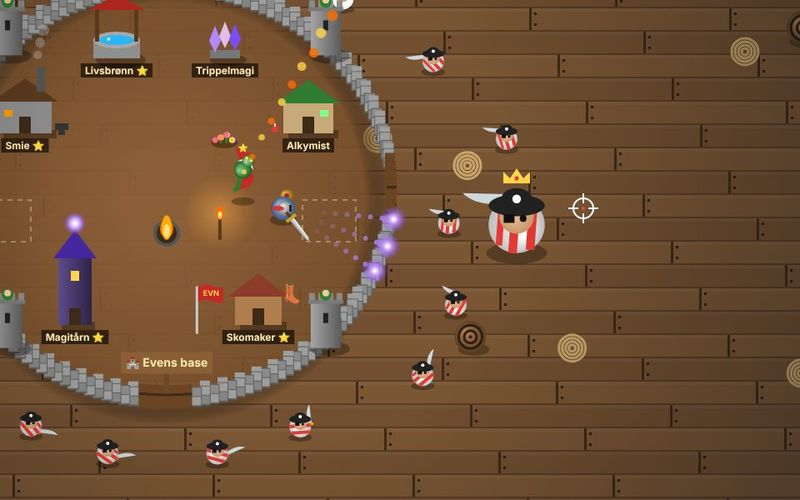
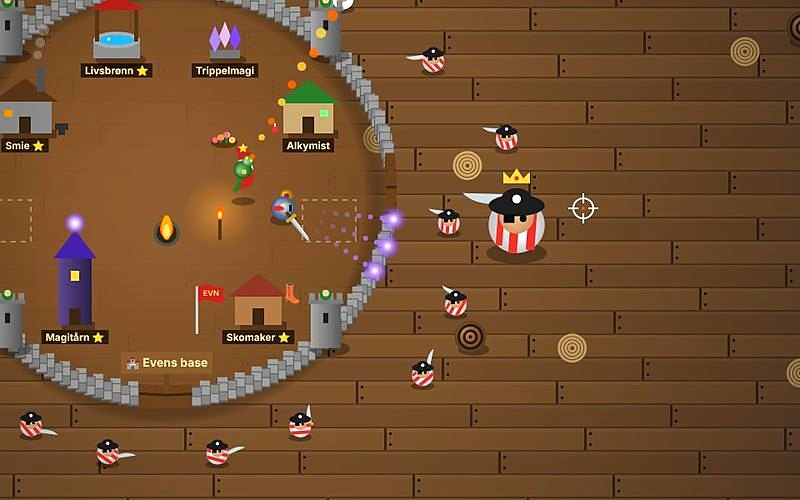
Forside: mer levende spillkort, klikkbare nyhetskort, ny footer og scroll-animasjoner
- Spillkort løfter seg mer ved hover (translateY + scale) med glød i spillets egen farge
- Fargerike og større stikkord, skarpere skjermbilder (Fossil Zoo i 1200 px via srcset)
- Nyhetskort med farge per nyhet, ikon i fargesirkel og hele kortet klikkbart
- Footer med lenker til Alle spill, Personvern, Sikkerhet og Kontakt (for voksne)
- Scroll-reveal med forskjøvet inntoning; innhold vises uten JavaScript og ved redusert bevegelse

Claude-Session: https://claude.ai/code/session_01MHiEAzBznnujooqyTbQ68h

diff --git a/index.html b/index.html
@@ -13,6 +13,7 @@
 <link rel="icon" href="favicon.png">
 <link rel="apple-touch-icon" href="favicon.png">
 <link rel="stylesheet" href="fonter/fonter.css">
+<script>document.documentElement.classList.add('js');</script>
 <style>
   /* ===== Fargepalett: mørk marine med blå og lilla fra logoen ===== */
   :root {
@@ -28,7 +29,9 @@
   body { margin: 0; font-family: var(--brod); color: var(--tekst); background: var(--bg); line-height: 1.5;
     background-image:
       radial-gradient(900px 520px at 8% -6%, rgba(47,107,255,.28), transparent 62%),
-      radial-gradient(800px 480px at 100% 4%, rgba(138,61,255,.24), transparent 60%);
+      radial-gradient(800px 480px at 100% 4%, rgba(138,61,255,.24), transparent 60%),
+      radial-gradient(700px 520px at 85% 62%, rgba(255,92,170,.10), transparent 62%),
+      radial-gradient(760px 520px at 0% 88%, rgba(25,195,255,.12), transparent 60%);
     background-repeat: no-repeat; min-height: 100vh; }
   a { color: inherit; text-decoration: none; }
   img { display: block; max-width: 100%; }
@@ -156,8 +159,8 @@
     .hero { min-height: 0; margin-top: 12px; } .hero .innhold { padding: 18px 24px; grid-template-columns: 1fr; }
     .epoker { display: none; } .hero .merker { display: none; } .hero h1 { font-size: 34px; margin-bottom: 8px; } .hero p { display: none; } }
   /* Diskret inntoning når seksjoner kommer til syne */
-  .inn { opacity: 0; transform: translateY(16px); transition: opacity .6s ease, transform .6s ease; }
-  .inn.synlig { opacity: 1; transform: none; }
+  .js .inn { opacity: 0; transform: translateY(26px); }
+  .js .inn.synlig { opacity: 1; transform: none; transition: opacity .7s ease, transform .7s cubic-bezier(.2,.8,.25,1); transition-delay: calc(var(--i, 0) * 110ms); }
 
   /* ===== Nettbrett ===== */
   @media (max-width: 980px) {
@@ -205,7 +208,7 @@
   /* Respekter ønske om mindre bevegelse */
   @media (prefers-reduced-motion: reduce) {
     *, *::before, *::after { animation: none !important; transition: none !important; }
-    .inn { opacity: 1; transform: none; }
+    .js .inn { opacity: 1; transform: none; }
     html { scroll-behavior: auto; }
   }
 
@@ -231,6 +234,78 @@
     .spillkort .stikkord span { font-size: 12px; padding: 2px 9px; }
     .spillkort p { font-size: 15px; line-height: 1.35; }
     .spillkort .knapp { min-height: 52px; font-size: 19px; margin-top: 4px; }
+  }
+
+  /* ===== Designrunde 1.11.2026: mer liv i kort, nyheter og footer ===== */
+  .seksjonstopp h2 { position: relative; padding-bottom: 8px; }
+  .seksjonstopp h2::after { content: ""; position: absolute; left: 0; bottom: 0; width: 56px; height: 4px; border-radius: 4px; background: var(--gradient); }
+
+  /* Spillkort: hver spill har sin egen aksentfarge */
+  .spillkort { --aksent: 25,195,255; transition: transform .3s cubic-bezier(.2,.8,.25,1.2), box-shadow .3s, border-color .3s; }
+  .spillkort.k-era { --aksent: 255,176,46; }
+  .spillkort.k-mork { --aksent: 255,122,47; }
+  .spillkort.k-fossil { --aksent: 120,214,120; }
+  .spillkort::before { content: ""; position: absolute; inset: 0; z-index: 2; border-radius: inherit; pointer-events: none;
+    box-shadow: inset 0 0 0 2px rgba(var(--aksent), 0); transition: box-shadow .3s; }
+  .spillkort:hover, .spillkort:focus-visible { transform: translateY(-10px) scale(1.025); border-color: rgba(var(--aksent), .7);
+    box-shadow: 0 32px 60px -16px rgba(var(--aksent), .45), 0 0 46px -6px rgba(var(--aksent), .35); }
+  .spillkort:hover::before, .spillkort:focus-visible::before { box-shadow: inset 0 0 0 2px rgba(var(--aksent), .65); }
+  .spillkort .bilde img { transition: transform .6s cubic-bezier(.2,.8,.25,1), filter .4s; }
+  .spillkort:hover .bilde img { transform: scale(1.08); filter: saturate(1.2) brightness(1.06); }
+  .spillkort:active { transform: translateY(-4px) scale(.99); }
+  .boks a { text-decoration: underline; text-underline-offset: 3px; color: var(--tekst); }
+  /* Stikkord: større og fargerike */
+  .spillkort .stikkord { gap: 8px; }
+  .spillkort .stikkord span { --t: 160,175,255; font-size: 14.5px; padding: 5px 12px; color: rgb(var(--t)); background: rgba(var(--t), .14);
+    border: 1px solid rgba(var(--t), .45); filter: brightness(1.25); }
+  .spillkort .stikkord .t-kamp { --t: 255,120,110; }
+  .spillkort .stikkord .t-bygg { --t: 110,170,255; }
+  .spillkort .stikkord .t-overlev { --t: 255,160,80; }
+  .spillkort .stikkord .t-utforsk { --t: 110,220,140; }
+  .spillkort .stikkord .t-grav { --t: 240,190,90; }
+  .spillkort .stikkord .t-laer { --t: 190,150,255; }
+
+  /* Siste nytt: farge per nyhet, ikon i fargesirkel, hele kortet er klikkbart */
+  .nyhet { --f: 138,61,255; position: relative; overflow: hidden; padding: 24px 22px 20px;
+    background: linear-gradient(165deg, rgba(var(--f), .16) 0%, var(--flate) 48%);
+    transition: transform .3s cubic-bezier(.2,.8,.25,1.2), border-color .3s, box-shadow .3s; }
+  .nyhet::before { content: ""; position: absolute; left: 0; right: 0; top: 0; height: 4px; background: linear-gradient(90deg, rgb(var(--f)), rgba(var(--f), .2)); }
+  .nyhet.n1 { --f: 25,195,255; } .nyhet.n2 { --f: 120,214,120; } .nyhet.n3 { --f: 255,176,46; }
+  .nyhet .ikon { display: grid; place-items: center; width: 56px; height: 56px; border-radius: 16px; font-size: 30px;
+    background: rgba(var(--f), .18); border: 1px solid rgba(var(--f), .45); transition: transform .35s cubic-bezier(.2,.8,.25,1.4); }
+  .nyhet time { color: rgb(var(--f)); filter: brightness(1.2); }
+  .nyhet h3 a::after { content: ""; position: absolute; inset: 0; z-index: 1; border-radius: inherit; }
+  .nyhet h3 a:focus-visible { outline: none; }
+  .nyhet:focus-within { outline: 3px solid var(--cyan); outline-offset: 3px; }
+  .nyhet .mer { margin-top: auto; padding-top: 6px; font-weight: 800; color: rgb(var(--f)); filter: brightness(1.25); }
+  .nyhet .mer::after { content: " →"; display: inline-block; transition: transform .25s; }
+  .nyhet:hover { transform: translateY(-6px); border-color: rgba(var(--f), .65); box-shadow: 0 24px 46px -18px rgba(var(--f), .5); }
+  .nyhet:hover .ikon { transform: rotate(-8deg) scale(1.12); }
+  .nyhet:hover .mer::after { transform: translateX(5px); }
+
+  /* Footer */
+  footer { margin-top: 84px; position: relative; background: linear-gradient(180deg, rgba(19,26,58,.0), rgba(19,26,58,.75)); border-top: 0; }
+  footer::before { content: ""; position: absolute; left: 0; right: 0; top: 0; height: 2px; background: var(--gradient); opacity: .7; }
+  footer .bredde { display: grid; grid-template-columns: 1fr auto; align-items: center; gap: 18px 32px; padding-top: 34px; padding-bottom: 36px; }
+  footer .fot-merke { display: flex; align-items: center; gap: 14px; }
+  footer .fot-merke img { height: 42px; opacity: 1; }
+  footer .fot-merke p { margin: 0; color: var(--dempet); font-size: 14px; }
+  footer .fot-merke b { color: var(--tekst); font-family: var(--tittel); font-size: 16px; }
+  footer ul { list-style: none; margin: 0; padding: 0; display: flex; flex-wrap: wrap; gap: 8px; }
+  footer ul a { display: inline-flex; align-items: center; gap: 6px; min-height: 44px; padding: 8px 16px; border-radius: 12px; text-decoration: none;
+    font-weight: 800; color: var(--tekst); background: rgba(255,255,255,.06); border: 1px solid var(--kant); transition: background .2s, border-color .2s, transform .2s; }
+  footer ul a:hover { background: rgba(47,107,255,.18); border-color: rgba(25,195,255,.5); transform: translateY(-2px); }
+  footer .copy { grid-column: 1 / -1; margin: 0; font-size: 13px; color: var(--dempet); }
+  @media (max-width: 680px) {
+    footer .bredde { grid-template-columns: 1fr; }
+    footer ul a { padding: 8px 12px; }
+    .spillkort .stikkord span { font-size: 13px; padding: 3px 10px; }
+  }
+  /* Berøringsskjermer: ingen «hengende» hover-løft etter et trykk */
+  @media (hover: none) {
+    .spillkort:hover, .nyhet:hover { transform: none; }
+    .spillkort:hover .bilde img { transform: none; }
+    .spillkort:active { transform: scale(.98); box-shadow: 0 0 40px -6px rgba(var(--aksent), .45); }
   }
 </style>
 </head>
@@ -258,41 +333,41 @@
     </div>
     <div class="spill-liste">
       <!-- Nytt spill? Kopier et spillkort og bytt lenke, bilde, navn, stikkord og tekst. -->
-      <a class="spillkort" href="spill/eventyrspill/">
+      <a class="spillkort k-era inn" style="--i:0" href="spill/eventyrspill/">
         <div class="bilde">
           <img src="bilder/eventyr-kort.jpg" alt="Skjermbilde fra Era Defenders: piratskipet med basen og Piratkapteinen">
           <span class="avspill" aria-hidden="true"></span>
         </div>
         <div class="tekst">
           <h3>Era Defenders</h3>
-          <div class="stikkord"><span><i aria-hidden="true">⚔</i> Kamp</span><span><i aria-hidden="true">🏰</i> Bygging</span></div>
+          <div class="stikkord"><span class="t-kamp"><i aria-hidden="true">⚔</i> Kamp</span><span class="t-bygg"><i aria-hidden="true">🏰</i> Bygging</span></div>
           <p>Slåss mot monstre og bygg basen din.</p>
           <span class="knapp"><span class="trekant" aria-hidden="true"></span>Spill nå</span>
         </div>
       </a>
 
-      <a class="spillkort" href="spill/morkeskogen/">
+      <a class="spillkort k-mork inn" style="--i:1" href="spill/morkeskogen/">
         <div class="bilde">
           <img src="bilder/morkeskogen.jpg" alt="Skjermbilde fra Mørkeskogen: spilleren ved bålet i skogen">
           <span class="avspill" aria-hidden="true"></span>
         </div>
         <div class="tekst">
           <h3>Mørkeskogen</h3>
-          <div class="stikkord"><span><i aria-hidden="true">🔥</i> Overlevelse</span><span><i aria-hidden="true">🌲</i> Utforsking</span></div>
+          <div class="stikkord"><span class="t-overlev"><i aria-hidden="true">🔥</i> Overlevelse</span><span class="t-utforsk"><i aria-hidden="true">🌲</i> Utforsking</span></div>
           <p>Samle ved og overlev natten i skogen.</p>
           <span class="knapp"><span class="trekant" aria-hidden="true"></span>Spill nå</span>
         </div>
       </a>
 
-      <a class="spillkort" href="spill/fossilspillet/">
+      <a class="spillkort k-fossil inn" style="--i:2" href="spill/fossilspillet/">
         <div class="bilde">
-          <img src="bilder/fossilspillet.jpg" alt="Skjermbilde fra Fossil Zoo: graveren i en tunnel med ulven som hjelper og et glitrende fossilbein i jorda">
+          <img src="bilder/fossilspillet.jpg" srcset="bilder/fossilspillet.jpg 800w, bilder/fossilspillet-1200.jpg 1200w" sizes="(max-width: 680px) 100vw, 400px" alt="Skjermbilde fra Fossil Zoo: graveren i en tunnel med ulven som hjelper og et glitrende fossilbein i jorda">
           <span class="merke klar">Nytt</span>
           <span class="avspill" aria-hidden="true"></span>
         </div>
         <div class="tekst">
           <h3>Fossil Zoo</h3>
-          <div class="stikkord"><span><i aria-hidden="true">⛏</i> Graving</span><span><i aria-hidden="true">🦴</i> Læring</span></div>
+          <div class="stikkord"><span class="t-grav"><i aria-hidden="true">⛏</i> Graving</span><span class="t-laer"><i aria-hidden="true">🦴</i> Læring</span></div>
           <p>Grav fram fossiler og vekk dyrene til live.</p>
           <span class="knapp"><span class="trekant" aria-hidden="true"></span>Spill nå</span>
         </div>
@@ -308,23 +383,26 @@
       <p>Fra spillstudioet</p>
     </div>
     <div class="nytt">
-      <article class="nyhet inn">
+      <article class="nyhet n1 inn" style="--i:0">
         <span class="ikon" aria-hidden="true">✨</span>
         <time datetime="2026-10-31">31. oktober 2026</time>
-        <h3>Nye navn og enklere start</h3>
+        <h3><a href="#spill">Nye navn og enklere start</a></h3>
         <p>Spillene heter nå Era Defenders, Mørkeskogen og Fossil Zoo. Alle har fått en startskjerm som viser målet og hvordan du styrer.</p>
+        <span class="mer" aria-hidden="true">Se spillene</span>
       </article>
-      <article class="nyhet inn">
+      <article class="nyhet n2 inn" style="--i:1">
         <span class="ikon" aria-hidden="true">🦴</span>
         <time datetime="2026-10-31">31. oktober 2026</time>
-        <h3>Fossil Zoo: tre tidsepoker og 13 dyr</h3>
+        <h3><a href="spill/fossilspillet/">Fossil Zoo: tre tidsepoker og 13 dyr</a></h3>
         <p>Grav deg ned gjennom jordas oldtid, mellomalder og nytid. Hver fossilbit gir en ledetråd – klarer du å gjette dyret før det våkner?</p>
+        <span class="mer" aria-hidden="true">Spill Fossil Zoo</span>
       </article>
-      <article class="nyhet inn">
+      <article class="nyhet n3 inn" style="--i:2">
         <span class="ikon" aria-hidden="true">⏳</span>
         <time datetime="2026-10-31">31. oktober 2026</time>
-        <h3>Era Defenders: sju tidsepoker</h3>
+        <h3><a href="spill/eventyrspill/">Era Defenders: sju tidsepoker</a></h3>
         <p>Reis fra steinalderen helt til tidens ende. Nye steder er Robotfabrikken og Tidsvirvelen, med våpen som fryser fiendene.</p>
+        <span class="mer" aria-hidden="true">Spill Era Defenders</span>
       </article>
     </div>
   </section>
@@ -342,7 +420,7 @@
         <p>Spillene er gratis, og alle kan prøve dem!</p>
         <p id="personvern" class="liten">For voksne: Vi samler ikke inn navn eller e-post, og bruker ingen informasjonskapsler. Les mer om <a href="personvern/">personvern</a> og <a href="sikkerhet/">sikkerhet</a>.</p>
       </div>
-      <div class="boks inn">
+      <div class="boks inn" style="--i:1">
         <h3>📱 Spill som app</h3>
         <ol>
           <li>Åpne et spill i Safari eller Chrome.</li>
@@ -357,8 +435,19 @@
 
 <footer>
   <div class="bredde">
-    <img src="logo-lys.png" alt="EVN Studio" width="45" height="34" loading="lazy">
-    <span>© EVN Studio · Laget av barn. For barn. 🎮 · <a href="personvern/">Personvern</a> · <a href="sikkerhet/">Sikkerhet</a></span>
+    <div class="fot-merke">
+      <img src="logo-lys.png" alt="" width="56" height="42" loading="lazy">
+      <p><b>EVN Studio</b><br>Laget av barn. For barn. 🎮</p>
+    </div>
+    <nav aria-label="Bunnmeny">
+      <ul>
+        <li><a href="#spill"><span aria-hidden="true">🎮</span> Alle spill</a></li>
+        <li><a href="personvern/"><span aria-hidden="true">🔒</span> Personvern</a></li>
+        <li><a href="sikkerhet/"><span aria-hidden="true">🛡</span> Sikkerhet</a></li>
+        <li><a href="mailto:kontakt@evnstudio.no"><span aria-hidden="true">✉</span> Kontakt (for voksne)</a></li>
+      </ul>
+    </nav>
+    <p class="copy">© 2026 EVN Studio · Gratis · Ingen innlogging · Ingen informasjonskapsler</p>
   </div>
 </footer>
 
@@ -368,7 +457,12 @@
     var deler = document.querySelectorAll('.inn');
     if (!('IntersectionObserver' in window)) { deler.forEach(function (d) { d.classList.add('synlig'); }); return; }
     var obs = new IntersectionObserver(function (oppf) {
-      oppf.forEach(function (o) { if (o.isIntersecting) { o.target.classList.add('synlig'); obs.unobserve(o.target); } });
+      oppf.forEach(function (o) {
+        if (!o.isIntersecting) return;
+        var el = o.target; el.classList.add('synlig'); obs.unobserve(el);
+        // Når inntoningen er ferdig, fjernes klassene, så hover-løftet ikke arver forsinkelsen
+        setTimeout(function () { el.classList.remove('inn', 'synlig'); }, 900 + 110 * (parseInt(el.style.getPropertyValue('--i')) || 0));
+      });
     }, { rootMargin: '0px 0px -8% 0px' });
     deler.forEach(function (d) { obs.observe(d); });
   })();
